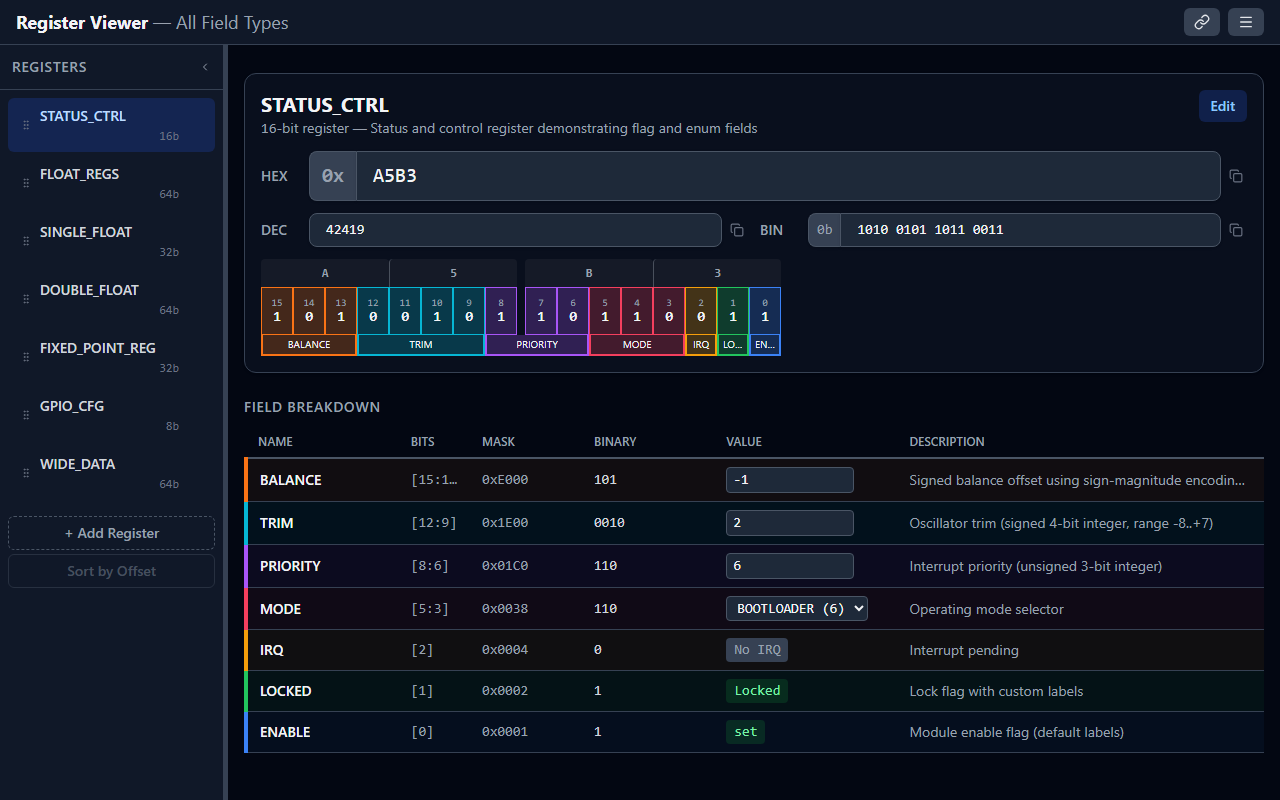
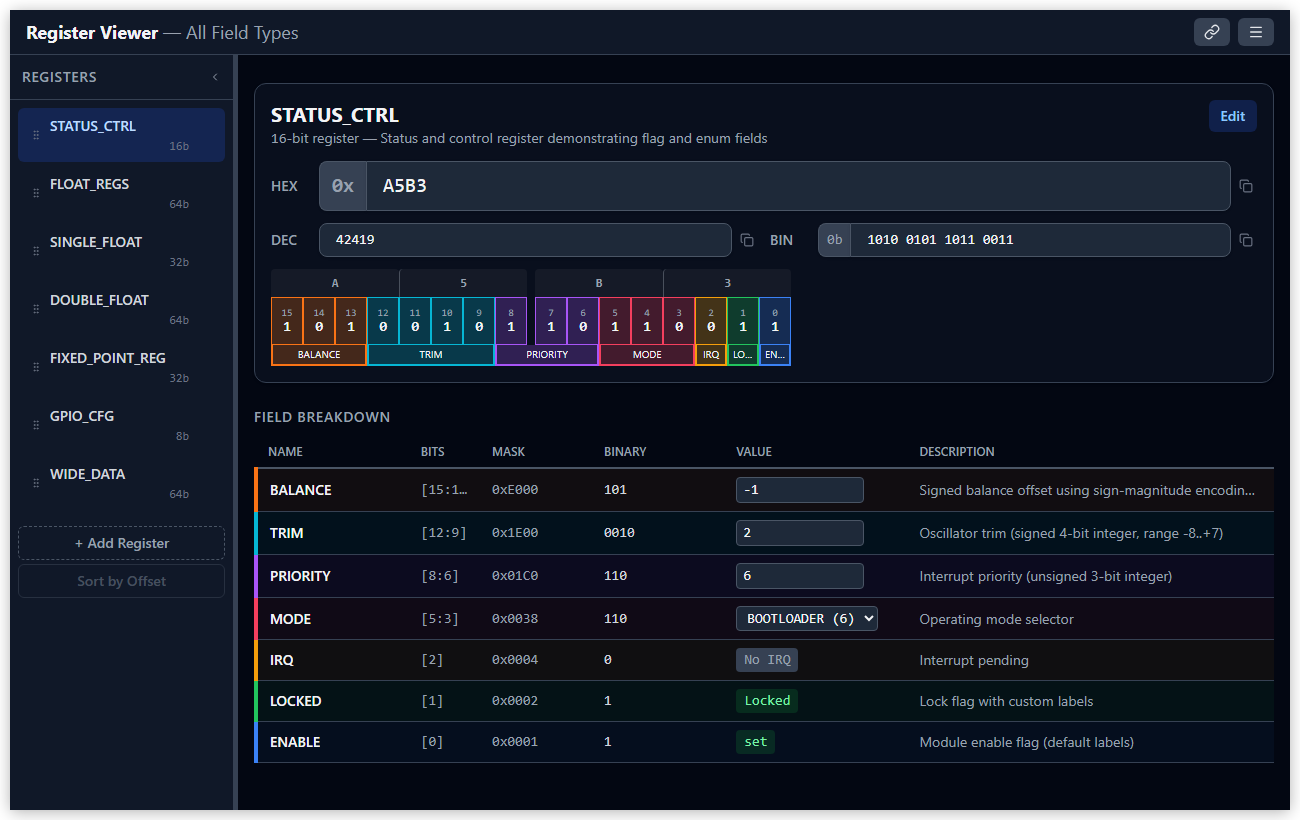
Add shadows to screenshots

Changed region(s): [[0.0, 0.0, 1.0, 1.0]]

diff --git a/scripts/add-screenshot-borders.ts b/scripts/add-screenshot-borders.ts
@@ -1,0 +1,149 @@
+/**
+ * Adds a drop shadow to screenshots so they stand out against any
+ * background (light or dark). Uses a transparent canvas so the shadow
+ * blends naturally with GitHub's theme.
+ *
+ * Run automatically as part of:  npm run screenshots
+ */
+
+import { readFileSync, writeFileSync } from 'fs';
+import { PNG } from 'pngjs';
+
+const SCREENSHOTS = [
+  'docs/images/screenshot-light.png',
+  'docs/images/screenshot-dark.png',
+  'docs/images/map-view-light.png',
+  'docs/images/map-view-dark.png',
+];
+
+// Shadow parameters
+const SHADOW_BLUR = 8; // blur radius in pixels
+const SHADOW_OFFSET_X = 0; // horizontal offset
+const SHADOW_OFFSET_Y = 2; // slight downward offset
+const SHADOW_OPACITY = 0.3; // max shadow opacity (0–1)
+const PADDING = SHADOW_BLUR + Math.max(Math.abs(SHADOW_OFFSET_X), Math.abs(SHADOW_OFFSET_Y));
+const CORNER_RADIUS = 4;
+
+/** Simple box blur on a single-channel (alpha) buffer. */
+function boxBlur(data: Float64Array, w: number, h: number, radius: number) {
+  const out = new Float64Array(w * h);
+  const size = radius * 2 + 1;
+
+  // Horizontal pass
+  for (let y = 0; y < h; y++) {
+    let sum = 0;
+    for (let x = -radius; x <= radius; x++) {
+      sum += data[y * w + Math.max(0, Math.min(x, w - 1))];
+    }
+    for (let x = 0; x < w; x++) {
+      out[y * w + x] = sum / size;
+      const addIdx = Math.min(x + radius + 1, w - 1);
+      const removeIdx = Math.max(x - radius, 0);
+      sum += data[y * w + addIdx] - data[y * w + removeIdx];
+    }
+  }
+
+  // Vertical pass
+  const result = new Float64Array(w * h);
+  for (let x = 0; x < w; x++) {
+    let sum = 0;
+    for (let y = -radius; y <= radius; y++) {
+      sum += out[Math.max(0, Math.min(y, h - 1)) * w + x];
+    }
+    for (let y = 0; y < h; y++) {
+      result[y * w + x] = sum / size;
+      const addIdx = Math.min(y + radius + 1, h - 1);
+      const removeIdx = Math.max(y - radius, 0);
+      sum += out[addIdx * w + x] - out[removeIdx * w + x];
+    }
+  }
+
+  return result;
+}
+
+function addDropShadow(filePath: string) {
+  const buffer = readFileSync(filePath);
+  const src = PNG.sync.read(buffer);
+
+  const dstW = src.width + PADDING * 2;
+  const dstH = src.height + PADDING * 2;
+  const dst = new PNG({ width: dstW, height: dstH });
+
+  // Start with fully transparent canvas
+  dst.data.fill(0);
+
+  // Create shadow mask — a filled rounded rectangle
+  const shadowAlpha = new Float64Array(dstW * dstH);
+  const sx = PADDING + SHADOW_OFFSET_X;
+  const sy = PADDING + SHADOW_OFFSET_Y;
+
+  for (let y = 0; y < src.height; y++) {
+    for (let x = 0; x < src.width; x++) {
+      // Round corners
+      let inside = true;
+      if (CORNER_RADIUS > 0) {
+        const corners = [
+          [0, 0],
+          [src.width - 1, 0],
+          [0, src.height - 1],
+          [src.width - 1, src.height - 1],
+        ] as const;
+        for (const [cx, cy] of corners) {
+          const dx = Math.abs(x - cx);
+          const dy = Math.abs(y - cy);
+          if (dx < CORNER_RADIUS && dy < CORNER_RADIUS) {
+            const cornerX = cx < src.width / 2 ? CORNER_RADIUS : src.width - 1 - CORNER_RADIUS;
+            const cornerY = cy < src.height / 2 ? CORNER_RADIUS : src.height - 1 - CORNER_RADIUS;
+            const dist = Math.sqrt((x - cornerX) ** 2 + (y - cornerY) ** 2);
+            if (dist > CORNER_RADIUS) {
+              inside = false;
+            }
+          }
+        }
+      }
+
+      if (inside) {
+        shadowAlpha[(sy + y) * dstW + (sx + x)] = SHADOW_OPACITY;
+      }
+    }
+  }
+
+  // Blur the shadow (two passes for smoother result)
+  const blurred = boxBlur(boxBlur(shadowAlpha, dstW, dstH, SHADOW_BLUR), dstW, dstH, SHADOW_BLUR);
+
+  // Apply shadow as black pixels with alpha (transparent background)
+  for (let y = 0; y < dstH; y++) {
+    for (let x = 0; x < dstW; x++) {
+      const a = blurred[y * dstW + x];
+      if (a > 0) {
+        const idx = (y * dstW + x) * 4;
+        // RGB stays 0 (black shadow), just set alpha
+        dst.data[idx + 3] = Math.round(a * 255);
+      }
+    }
+  }
+
+  // Composite source image on top
+  const imgX = PADDING;
+  const imgY = PADDING;
+  for (let y = 0; y < src.height; y++) {
+    for (let x = 0; x < src.width; x++) {
+      const srcIdx = (y * src.width + x) * 4;
+      const dstIdx = ((imgY + y) * dstW + (imgX + x)) * 4;
+      dst.data[dstIdx] = src.data[srcIdx];
+      dst.data[dstIdx + 1] = src.data[srcIdx + 1];
+      dst.data[dstIdx + 2] = src.data[srcIdx + 2];
+      dst.data[dstIdx + 3] = 255;
+    }
+  }
+
+  const out = PNG.sync.write(dst);
+  writeFileSync(filePath, out);
+  console.log(`  + ${filePath} (drop shadow added)`);
+}
+
+for (const file of SCREENSHOTS) {
+  addDropShadow(file);
+}
+
+console.log('\nDone: drop shadows added to all screenshots');
